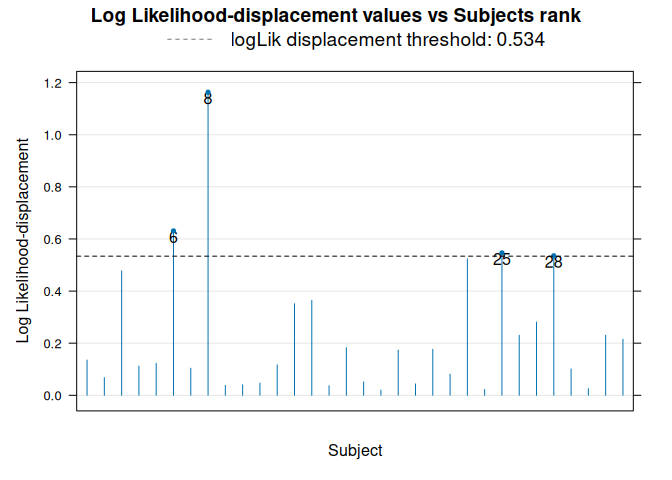
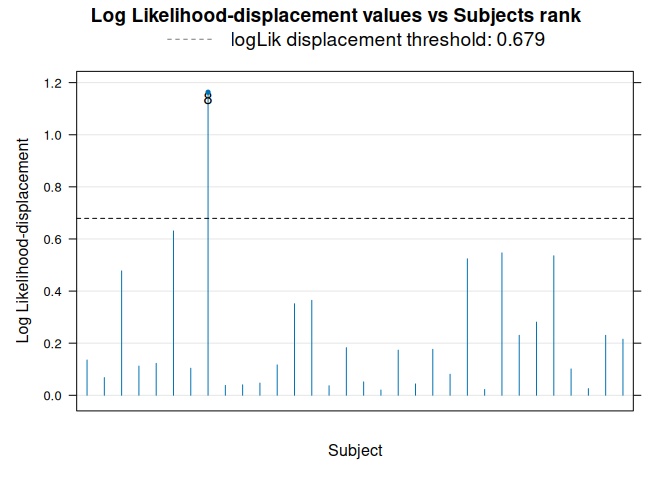
Updated README and Vignette

Changed region(s): [[0.7188, 0.5, 0.8438, 0.5625], [0.75, 0.0625, 0.8125, 0.0938], [0.25, 0.4688, 0.2812, 0.5]]

diff --git a/README.md b/README.md
@@ -132,11 +132,10 @@ lmmVar <- lmmModel(
   drug_a = "DrugA",
   drug_b = "DrugB",
   combination = "Combination",
-  weights = nlme::varIdent(form = ~1|Treatment)
+  weights = nlme::varIdent(form = ~1|Treatment),
+  show_plot = FALSE
 )
 ```
-
-<img src="man/figures/README-varIdent-1.png" width="100%" />
 
 Other options are:
 
@@ -176,11 +175,10 @@ lmmCont <- lmmModel(
   drug_a = "DrugA",
   drug_b = "DrugB",
   combination = "Combination",
-  control = nlme::lmeControl(maxIter = 1000)
+  control = nlme::lmeControl(maxIter = 1000),
+  show_plot = FALSE
 )
 ```
-
-<img src="man/figures/README-lmeControl-1.png" width="100%" />
 
 - For the exponential model use: `control = nlme::lmeControl()`
 - For the Gompertz model use: `control = nlme::nlmeControl()`
@@ -877,9 +875,9 @@ CookDistance(lmm, type = "fixef")
 
 ``` r
 logLikSubjectDisplacements(lmm)
-#> [1] "Outliers with Log Likelihood displacement greater than: 0.534"
-#>         6         8        25        28 
-#> 0.6308934 1.1633552 0.5465657 0.5354518
+#> [1] "Outliers with Log Likelihood displacement greater than: 0.679"
+#>        8 
+#> 1.163355
 ```
 
 <img src="man/figures/README-logLikDisp-1.png" width="100%" />
